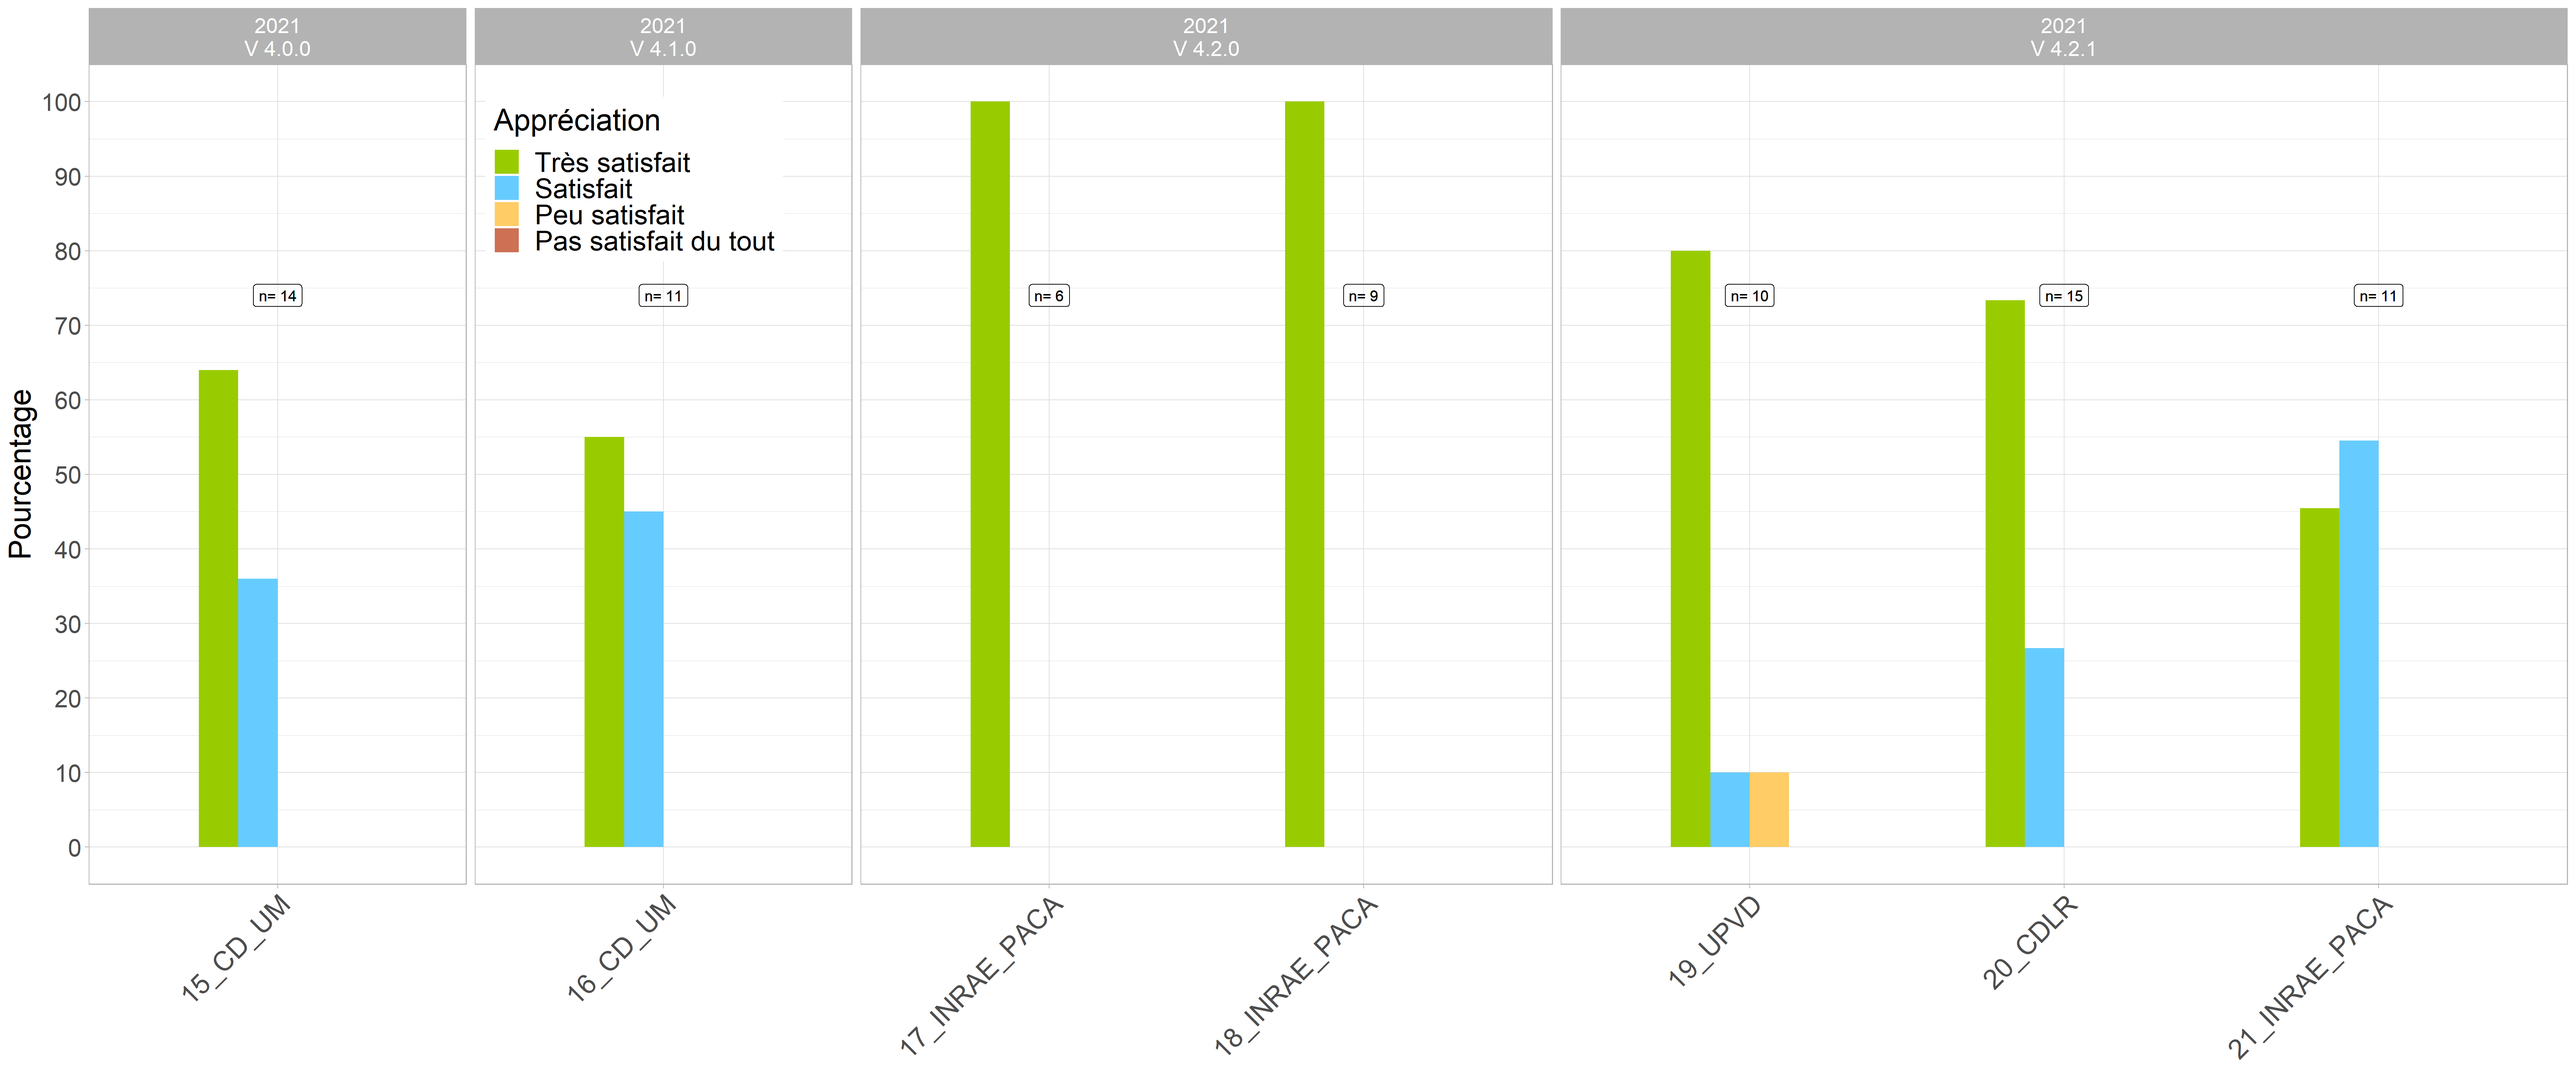
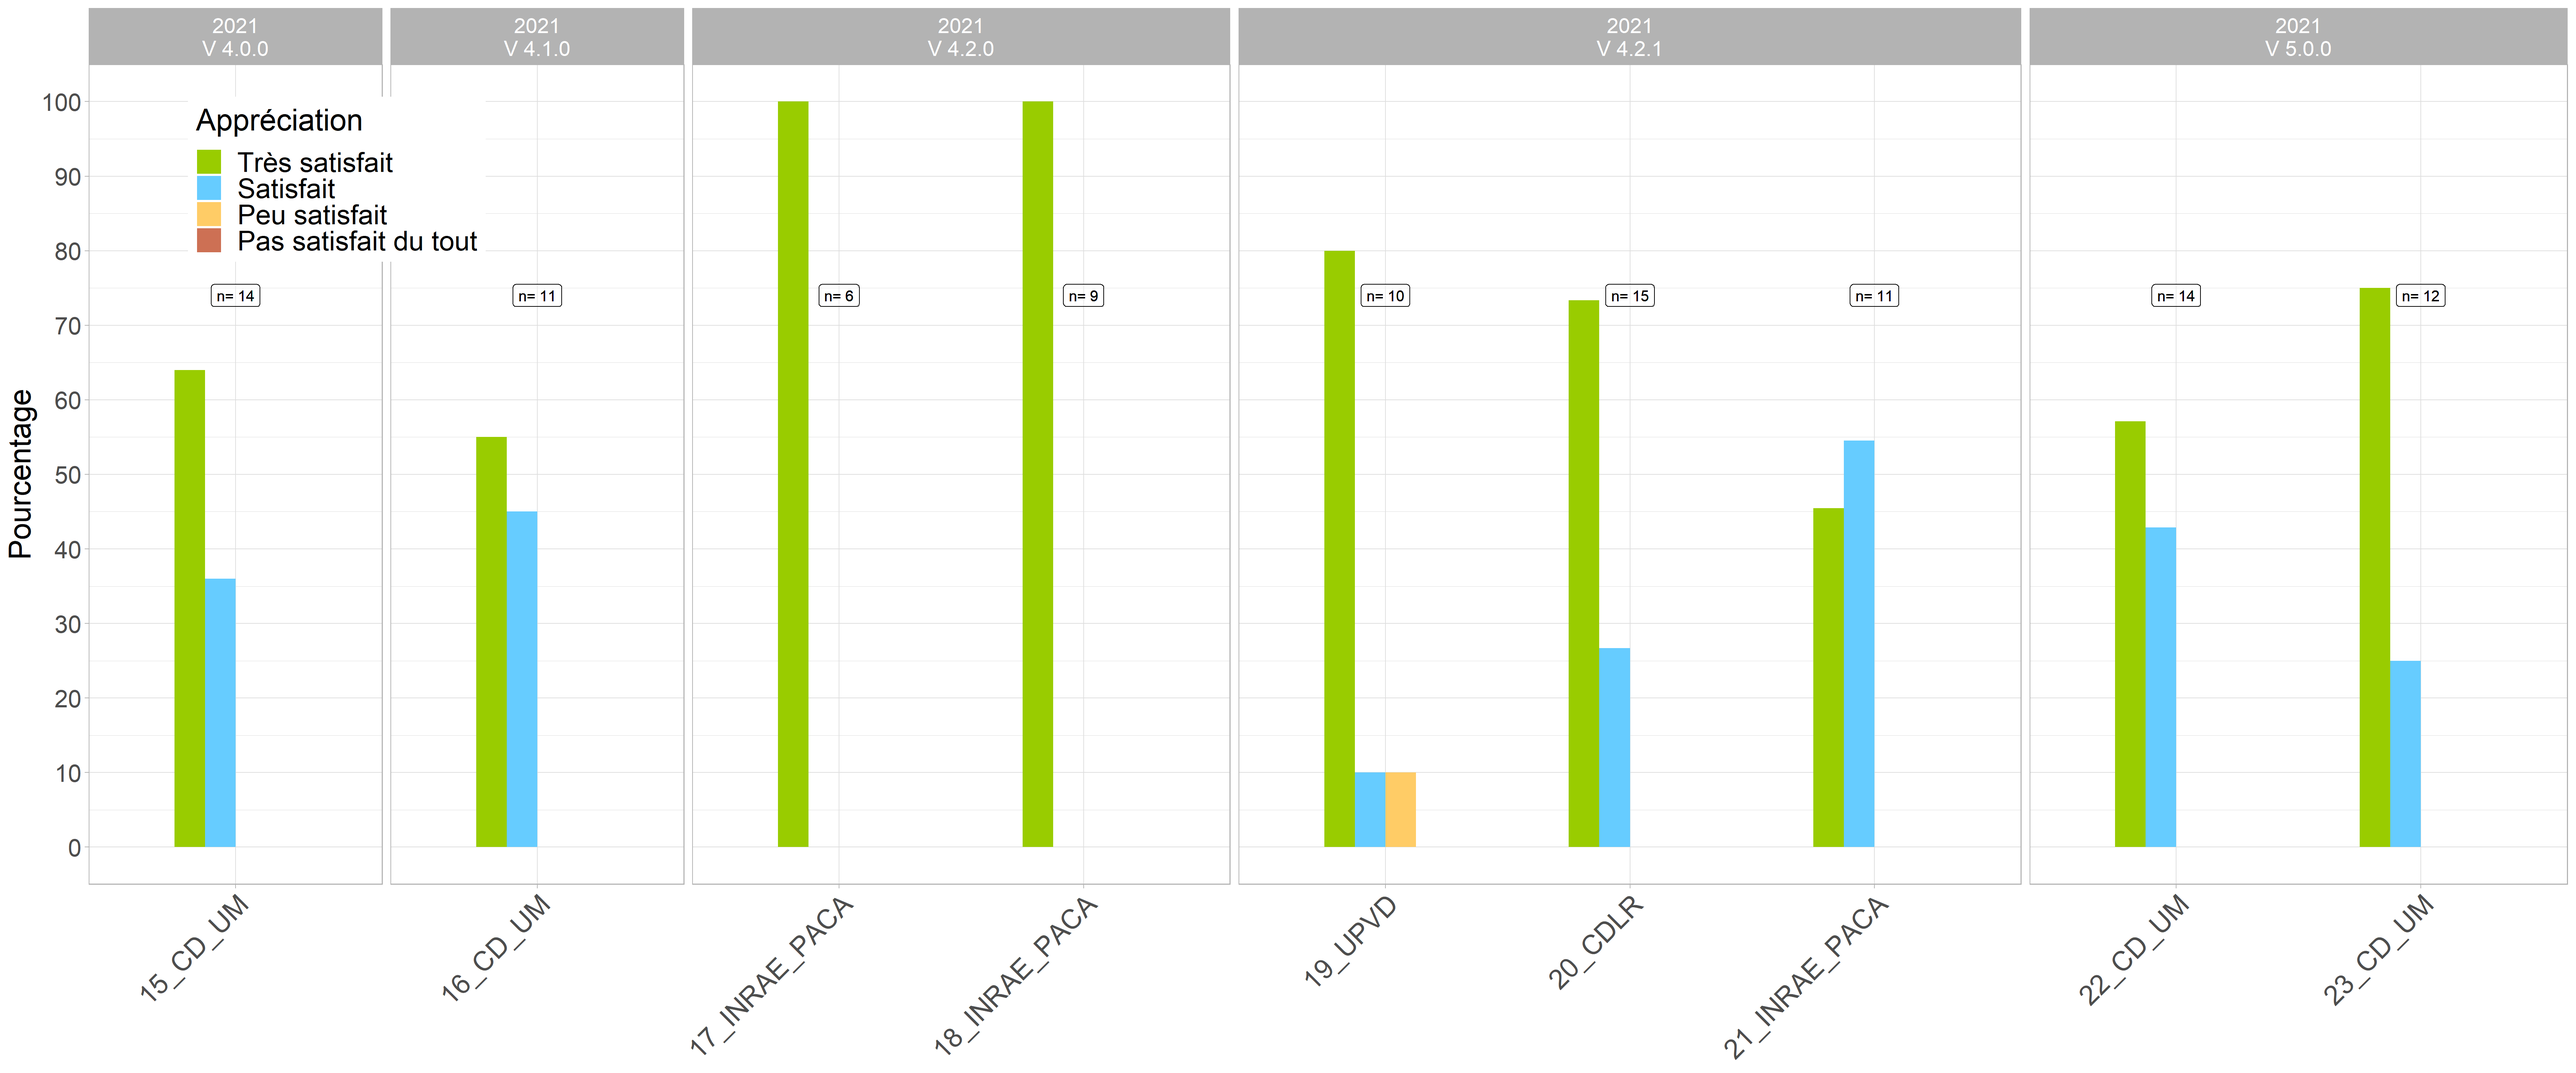
Mise à jour figures évaluation et légend

diff --git a/docs/aspects-pratiques.html b/docs/aspects-pratiques.html
@@ -253,7 +253,7 @@ remobiliser les connaissances dans un autre contexte (exercices).</p>
 <div class="figure">
 <img src="img/graphique_autoevaluation.png" alt="" />
 <p class="caption">Figure 7: Résultats des participant-e-s aux quiz et exercices de
-chaque séquence.</p>
+chaque séquence.Les notes des exercices sont les suivantes: 0 = Pas fait, 1= Pas fini car pas compris et pas compris la correction, 2= Pas fini car pas compris mais compris la correction, 3= Pas fini par manque de temps, 4= Pas fini car bloqué-e dans une erreur de code, 5= Fini</p>
 </div>
 </div>
 </div>

diff --git a/docs/index.html b/docs/index.html
@@ -166,7 +166,7 @@ avec RStudio, le Tidyverse et Rmarkdown</div></a>
 avec RStudio, le Tidyverse et Rmarkdown</div></h1>
 <h2 class="subtitle"><em>Version 5.0.0</em></h2>
 <p class="author"><em>Oswaldo Forey</em></p>
-<p class="date"><em><div class="line-block">2021-09-07<br />
+<p class="date"><em><div class="line-block">2021-09-20<br />
 <img src="img/LogoQualiopi_150dpi.png" width="300" height="100" /><img src="img/logo_datadocke.png" width="100" height="100" /></div></em></p>
 </div>
 <div id="objectifs" class="section level1" number="1">

diff --git a/docs/programmes-pré-requis-et-objectifs-pédagogiques.html b/docs/programmes-pré-requis-et-objectifs-pédagogiques.html
@@ -180,7 +180,7 @@ avec RStudio, le Tidyverse et Rmarkdown</div></a>
 </ul>
 <div align="justify">
 <p>Le tableau ci-dessous synthétise pour chacun des 5 modules le public cible, les pré-requis, la durée et le contenu. Le détail des programmes de chaque module se trouve dans les sections suivantes. Les tarifs se trouvent dans la section <a href="aspects-pratiques.html#tarifs">4.2 Tarifs</a></p>
-<table style="width:100%;">
+<table>
 <colgroup>
 <col width="11%" />
 <col width="4%" />
